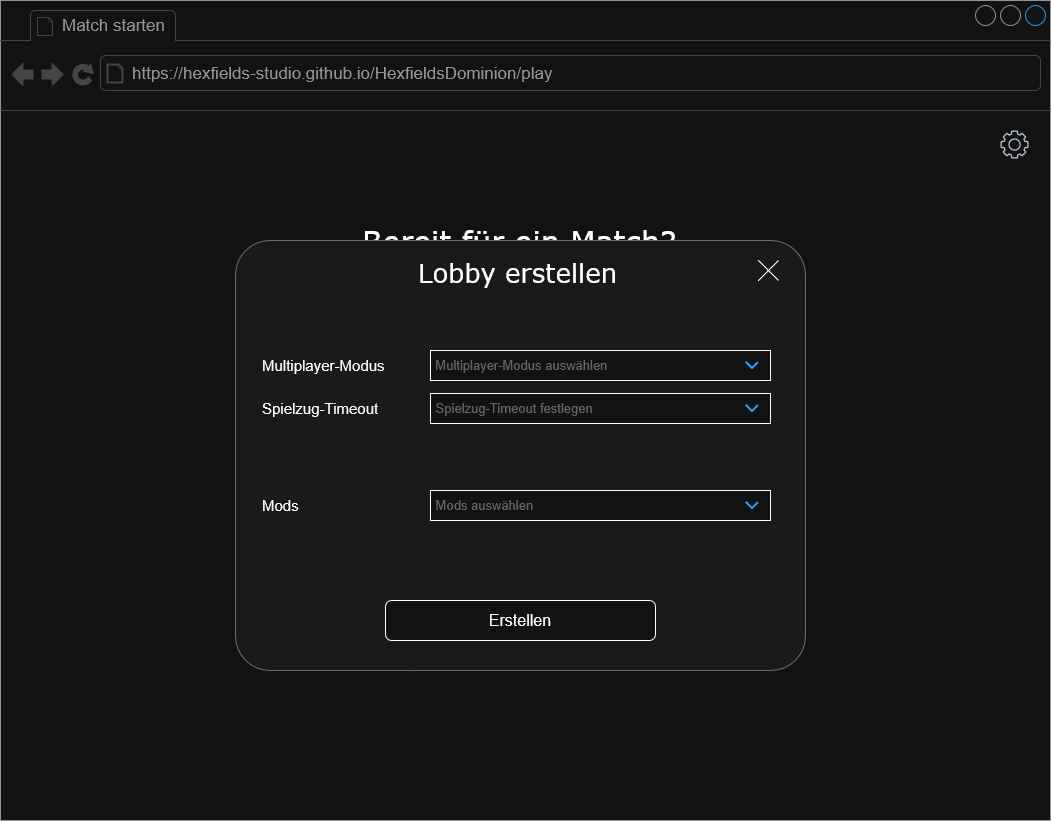
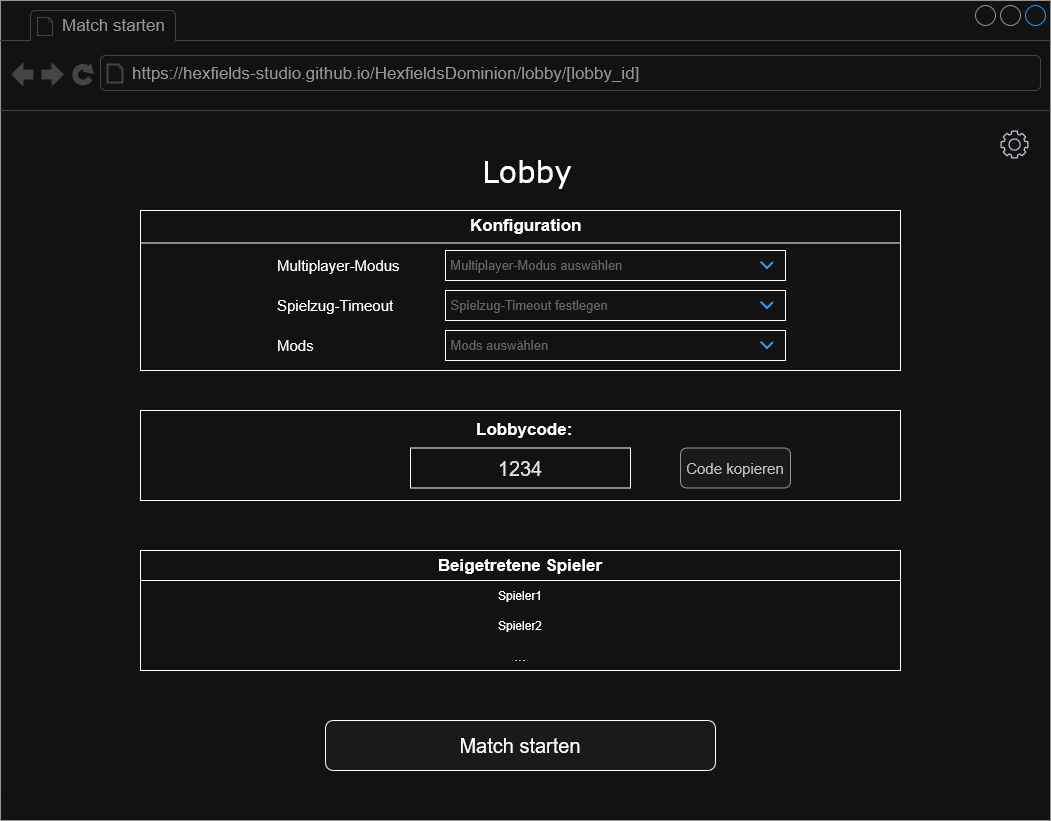
update lobby_erstellen mockup and related functionality details

diff --git a/srs/game/aktualisierung_und_datenaustausch/aktualisierung_und_datenaustausch.md b/srs/game/aktualisierung_und_datenaustausch/aktualisierung_und_datenaustausch.md
@@ -6,8 +6,8 @@
 Dieses Use-Case dient zur Anzeige des aktuellen Spielstandes auf der Seite des Clients. Demnach ist sie rein technisch basiert und wird im Hintergrund aktiviert. 
 Zu den Ereignissen, die die Aktualisierung auslösen, gehören unter anderem:
 - Den Wechsel des spielenden Spielers
-- Das erhalten von neuen Ressourcen nach dem Würfeln
-- Das ausführen eines Spielzugs
+- Das Erhalten von neuen Ressourcen nach dem Würfeln
+- Das Ausführen eines Spielzugs
 - Übertragung der Rolle des Spielleiters
 - Wenn ein Spieler das Match beitritt oder verlässt
 - etc.
@@ -20,7 +20,7 @@ n/a
 ## 2.1 Grundlegender Ablauf
 Dieser Ablauf beschreibt den vom Backend ausgeführten Prozess, um sicherzustellen, dass alle Clients immer den aktuellen Spielzustand anzeigen. Der Prozess besteht aus diesen Schritten in dieser Reihenfolge:
 1. Der Spielzustand ändert sich
-2. Der Server sendet das update an allen beteiligten Spielern
+2. Der Server sendet das Update an allen beteiligten Spielern
 3. Die Clients nehmen die neuen Daten auf, evtl. ändert sich die "Match Page"
 
 Im folgenden Sequenzdiagram sind unteranderem auch die Funktionalitäten dieses Use-Case enthalten:

diff --git a/srs/user_interface/start_menü/start_menü.md b/srs/user_interface/start_menü/start_menü.md
@@ -15,7 +15,7 @@ Dieses Use-Case dient dazu, dass User einer Lobby und damit einem Match beitrete
 ### 2.1 Ereignisse
 
 - Die User klicken auf "Lobby erstellen"
-- Das Frontend öffnet das Fenster zur Erstellung einer Lobby
+- Das Frontend leitet zu einer freien Lobby weiter
 
 #### Sequenzdiagramm
 
@@ -68,21 +68,23 @@ deactivate Frontend
 deactivate Spieler
 ```
 
+### Vorbedingungen
+1. Die User haben die Anwendung geöffnet.
+2. Die User haben sich mit Account oder als Gast angemeldet.
+
+### Nachbedingungen
+Den Usern wird die Seite einer freien Lobby mit Konfigurationsmöglichkeiten angezeigt
+
 ## 3. Spezielle Anforderungen
 
 n/a
 
 ## 4. Vorbedingungen
-
 1. Die User haben die Anwendung geöffnet.
 2. Die User haben sich mit Account oder als Gast angemeldet.
 
 ## 5. Nachbedingungen
-
-Usern wird je nach Auswahl das entsprechende Fenster angezeigt:
-
-- Menü zur Erstellung einer Lobby mit Einstellungsmöglichkeiten
-- Eingabemöglichkeit eines Lobbycodes, um einer bestehenden Lobby beizutreten
+Usern wird ein Fenster angezeigt, bei welchem ein Lobbycode eingegeben werden kann, um einer bestehenden Lobby beizutreten
 
 ## 6. Aufwandsschätzung
 

diff --git a/srs/lobby_management/lobby_erstellen_beitreten/ucrs_lobby_erstellen_beitreten.md b/srs/lobby_management/lobby_erstellen_beitreten/ucrs_lobby_erstellen_beitreten.md
@@ -58,9 +58,9 @@ Dieses Use-Case besteht aus zwei verschiedenen Abläufen: die Erstellung einer L
 Dieser Ablauf beschreibt den Prozess, der von einem Spieler für die Erstellung einer Lobby ausgeführt wird. Der Prozess besteht aus diesen Schritten in dieser Reihenfolge:
 
 1. Ein User klickt auf "Erstellen"  
-2. Das Frontend fragt beim Backend an, um eine freie Lobby zu finden und die vom User angegebenen Konfigurationen anzuwenden.  
+2. Das Frontend fragt beim Backend an, um eine freie Lobby zu finden
 3. Das Backend gibt die bereitgestellte Lobby und die ID zurück  
-4. Der User wird zur Lobby Seite weitergeleitet
+4. Der User wird zur Lobby Seite weitergeleitet, wo er die Lobby auch konfigurieren kann
 
 #### Sequenzdiagramm (Mermaid) - Erstellen der Lobby
 

diff --git a/srs/game/spielzug_ausfuehren/spielzug_ausfuehren.md b/srs/game/spielzug_ausfuehren/spielzug_ausfuehren.md
@@ -8,7 +8,7 @@ Beispielsweise ermöglicht das Use-Case somit folgende Spielzüge:
 - Die Platzierung von neuen Gebäuden
 - Eine Tauschanfrage mit einem Spieler
 - Das Handeln mit der Bank
-- Das manuelle beenden eines Spielzugs
+- Das manuelle Beenden eines Spielzugs
 
 ## 1.2 Mockup 
 n/a
@@ -95,7 +95,7 @@ activate Frontend
 ```
 
 ## 2.2 Alternative Abläufe
-Unvalide bzw. unberechtigte Spielzüge die von einem Client gesendet werden, sollen abgelehnt und mit einer entsprechenden Fehlernachricht beantwortet werden.
+Unvalide bzw. unberechtigte Spielzüge, die von einem Client gesendet werden, sollen abgelehnt und mit einer entsprechenden Fehlernachricht beantwortet werden.
 
 # 3. Besondere Anforderungen
 n/a

diff --git a/srs/lobby_management/lobby_erstellen_beitreten/lobby_erstellen_beitreten.md b/srs/lobby_management/lobby_erstellen_beitreten/lobby_erstellen_beitreten.md
@@ -17,8 +17,9 @@ Dabei ist egal, ob sie mit einem Account oder als Gast angemeldet sind und für 
 
 ## 2.1 Grundlegender Ablauf
 1. Ein User klickt auf “Erstellen”
-2. Das Frontend fragt beim Backend an, um eine freie Lobby zu finden und die vom User angegebenen Konfigurationen anzuwenden.
+2. Das Frontend fragt beim Backend an, um eine freie Lobby zu finden
 3. Der User wird zur Lobby Seite weitergeleitet
+4. Die vom User angegebenen Konfigurationen werden bei Änderung dieser angewendet
 
 ### Sequenzdiagramm
 ```mermaid
